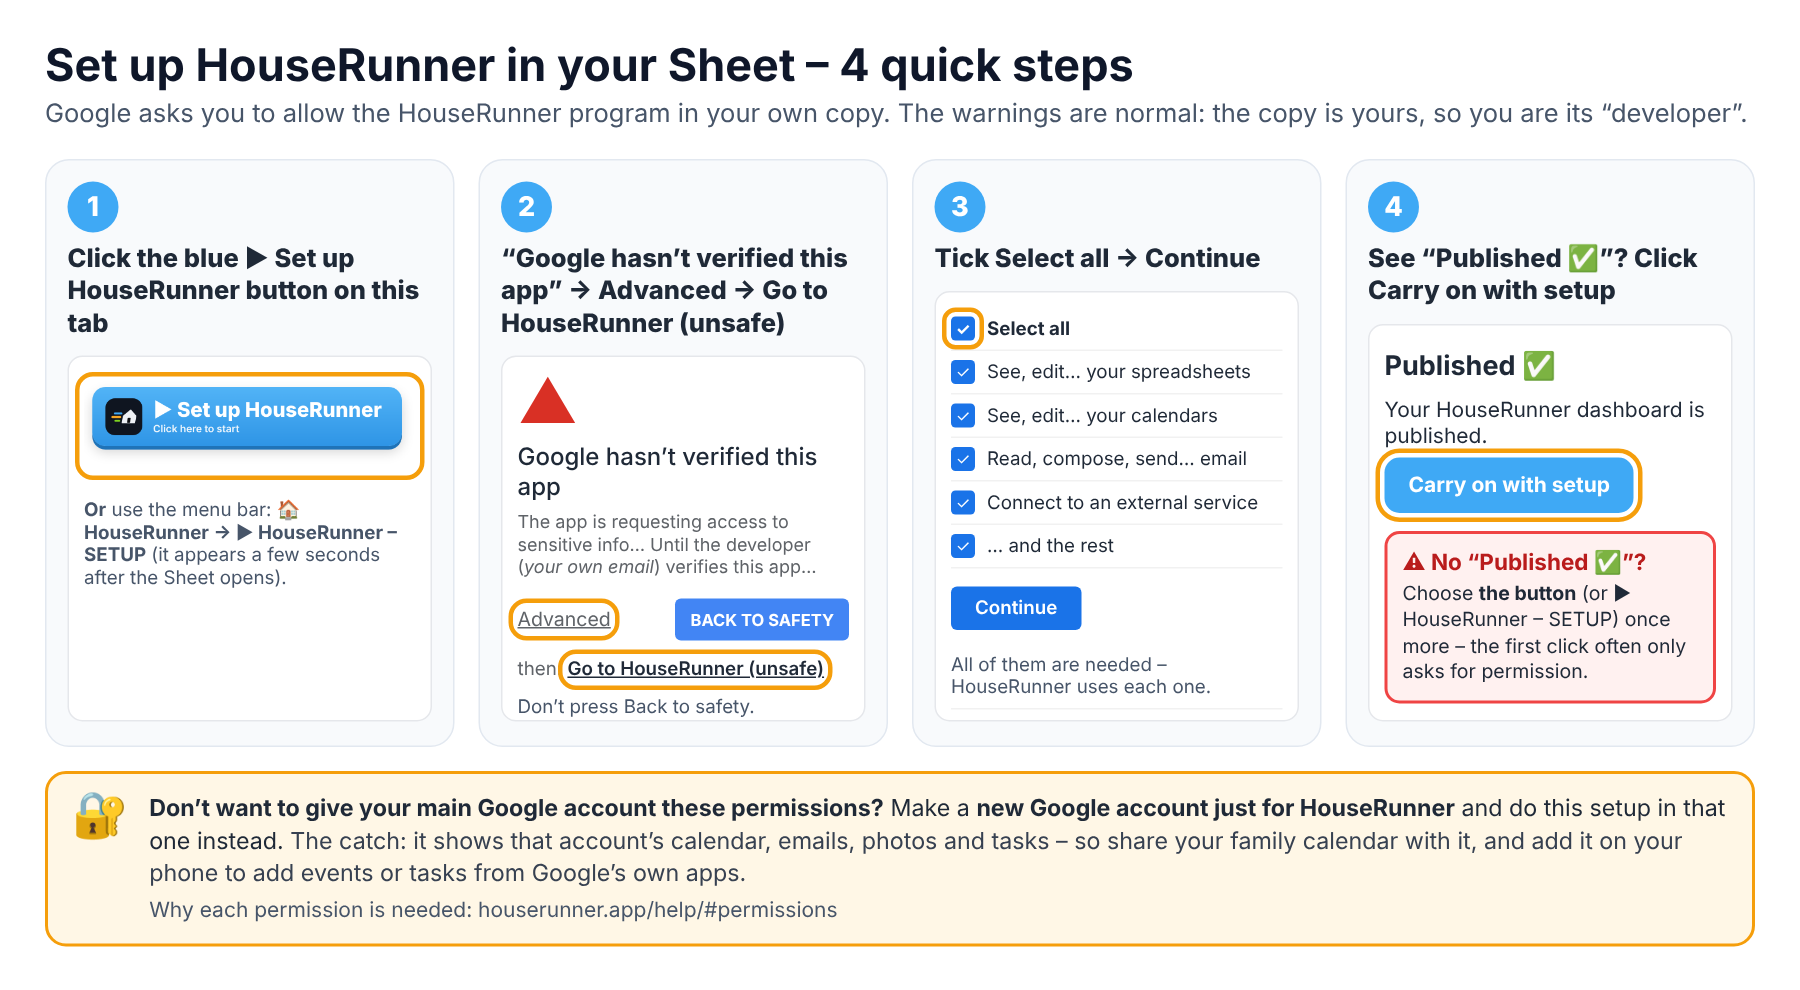
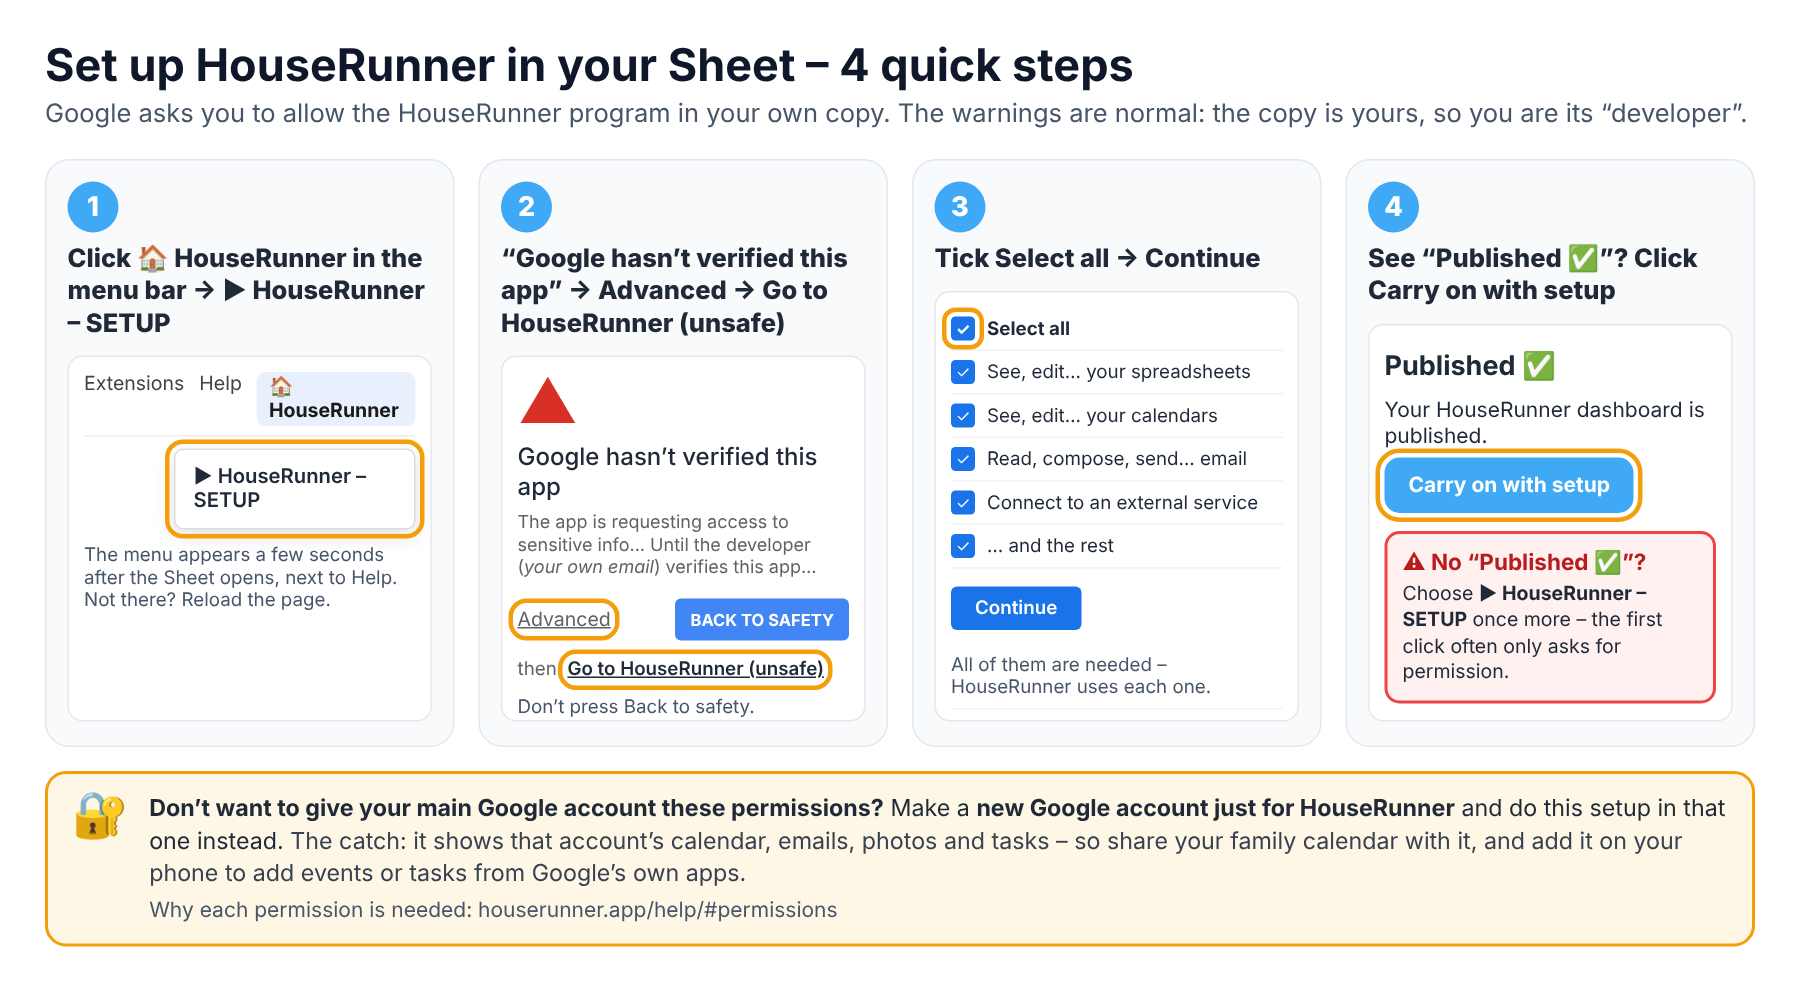
2026.11.261: menu-only instructions
Claude-Session: https://claude.ai/code/session_01R2kV4GW3UVFR51NzUKtdLQ

Changed region(s): [[0.0311, 0.3636, 0.2489, 0.6364], [0.7778, 0.5758, 0.9333, 0.697], [0.0311, 0.2424, 0.2489, 0.3333]]

diff --git a/setup/guide/setup.js b/setup/guide/setup.js
@@ -229,11 +229,11 @@
                 (tpl ? '<div class="card big"><ol class="howto"><li>Click <a class="btn" target="_blank" rel="noopener" href="https://docs.google.com/spreadsheets/d/' + encodeURIComponent(tpl) + '/copy">Make my copy</a> ' +
                     '<span class="mute">(it opens in a new tab)</span>. If Google asks you to sign in, use the Google account you want the dashboard in – the one with the family calendar.</li>' +
                     '<li>Google shows <b>“Copy document?”</b> – click the blue <b>Make a copy</b> button. <span class="mute">(If it mentions “Apps Script files”, that’s right – they come too.)</span></li>' +
-                    '<li>Your new Sheet opens on its <b>Start HERE</b> tab. Click the blue <b>▶ Set up HouseRunner</b> button there. <span class="mute">(Or use the menu along the top, next to <b>Help</b>: <b>🏠 HouseRunner → ▶ HouseRunner – SETUP</b> – it appears a few seconds after the Sheet opens.)</span></li>' +
+                    '<li>Your new Sheet opens on its <b>Start HERE</b> tab. Wait a few seconds for the <b>🏠 HouseRunner</b> menu along the top (next to <b>Help</b>), then click it → <b>▶ HouseRunner – SETUP</b>.</li>' +
                     '<li>Google asks for permission: click <b>Continue</b> and choose your account. Google then shows a red ⚠ <b>“Google hasn’t verified this app”</b> page, saying the developer – <b>your own email address</b> – hasn’t had it verified. ' +
                         'That’s normal: your copy is yours, so you are its “developer”. Don’t press the blue <b>Back to safety</b> button – click <b>Advanced</b> (small, bottom left) → <b>Go to HouseRunner (unsafe)</b>. ' +
                         'Google then lists what HouseRunner may do – click <b>Select all</b> (see the note on permissions below) → <b>Continue</b>.</li>' +
-                    '<li><div class="note bad"><b>⚠ No “Published ✅” message yet?</b> Then click the <b>▶ Set up HouseRunner</b> button (or the menu) once more. ' +
+                    '<li><div class="note bad"><b>⚠ No “Published ✅” message yet?</b> Then choose <b>🏠 HouseRunner → ▶ HouseRunner – SETUP</b> once more. ' +
                         '<span class="mute">Usually it’s needed: Google stops as soon as you’ve allowed it, so the first click only asks for permission and the second one does the work. ' +
                         'If it asks you to turn on one Google switch (the Apps Script API), follow its link, turn it on, and choose the menu once more.</span></div></li>' +
                     '<li>It says <b>“Published ✅”</b>. Click <b>Carry on with setup</b> – setup carries on in a new tab, already connected, showing <b>✅ Your Google Sheet is published and connected</b>. You can close the old tabs.</li></ol>' +

diff --git a/index.html b/index.html
@@ -24,11 +24,11 @@
         window.FD_DESK = true; window.FD_PHONE = !!phone;
     })();
     </script>
-    <link rel="stylesheet" href="shared/base.css?v=202611260">
-    <link rel="stylesheet" href="admin/admin.css?v=202611260">
-    <link rel="stylesheet" href="setup/desk.css?v=202611260">
-    <link rel="stylesheet" href="setup/editor.css?v=202611260">
-    <link rel="stylesheet" href="admin/phone.css?v=202611260">
+    <link rel="stylesheet" href="shared/base.css?v=202611261">
+    <link rel="stylesheet" href="admin/admin.css?v=202611261">
+    <link rel="stylesheet" href="setup/desk.css?v=202611261">
+    <link rel="stylesheet" href="setup/editor.css?v=202611261">
+    <link rel="stylesheet" href="admin/phone.css?v=202611261">
     <style>
 #landing { min-height: 100vh; }
 #landing .ld-wrap { max-width: 1100px; margin: 0 auto; padding: 30px 18px 50px; }
@@ -192,20 +192,20 @@
     </div></div>
     <!-- Connected: houserunner.app (computer) or Family Admin (phone) – the same app. -->
     <div id="app"></div>
-    <script src="shared/storecheck.js?v=202611260"></script>
-    <script src="shared/fd.js?v=202611260"></script>
-    <script src="dashboard/scripts/platform.js?v=202611260"></script>
-    <script src="shared/pair.js?v=202611260"></script>
-    <script src="shared/qrcode.js?v=202611260"></script>
-    <script src="shared/privacy.js?v=202611260"></script>
-    <script src="shared/countries.js?v=202611260"></script>
-    <script src="setup/config.js?v=202611260"></script>
-    <script src="help/topics.js?v=202611260"></script>
-    <script src="setup/editor.js?v=202611260"></script>
-    <script src="setup/calsetup.js?v=202611260"></script>
-    <script src="shared/icons.js?v=202611260"></script>
+    <script src="shared/storecheck.js?v=202611261"></script>
+    <script src="shared/fd.js?v=202611261"></script>
+    <script src="dashboard/scripts/platform.js?v=202611261"></script>
+    <script src="shared/pair.js?v=202611261"></script>
+    <script src="shared/qrcode.js?v=202611261"></script>
+    <script src="shared/privacy.js?v=202611261"></script>
+    <script src="shared/countries.js?v=202611261"></script>
+    <script src="setup/config.js?v=202611261"></script>
+    <script src="help/topics.js?v=202611261"></script>
+    <script src="setup/editor.js?v=202611261"></script>
+    <script src="setup/calsetup.js?v=202611261"></script>
+    <script src="shared/icons.js?v=202611261"></script>
     <!-- A phone gets Family Admin, written for the phone; a computer houserunner.app. -->
-    <script>document.write('<script src="admin/' + (window.FD_PHONE ? 'phone' : 'app') + '.js?v=202611260"><\/script>');</script>
+    <script>document.write('<script src="admin/' + (window.FD_PHONE ? 'phone' : 'app') + '.js?v=202611261"><\/script>');</script>
 <script>
  (function () {
    'use strict';

diff --git a/setup/guide/index.html b/setup/guide/index.html
@@ -6,8 +6,8 @@
     <title>HouseRunner Setup</title>
     <meta name="theme-color" content="#0c0e12">
     <link rel="icon" href="../../shared/brand/icon-192.png"><link rel="apple-touch-icon" href="../../shared/brand/apple-touch-icon.png">
-    <link rel="stylesheet" href="../editor.css?v=202611260">
-    <link rel="stylesheet" href="setup.css?v=202611260">
+    <link rel="stylesheet" href="../editor.css?v=202611261">
+    <link rel="stylesheet" href="setup.css?v=202611261">
 </head>
 <body>
     <header class="cfg-top"><a class="cfg-title hr-title" href="../../"><img src="../../shared/brand/mark.svg" alt="" class="hr-mini"><span>House<span class="hr-acc">Runner</span></span></a><a class="cfg-dash" href="../../dashboard/" target="_blank" rel="noopener">▶ Dashboard</a><a class="cfg-help" href="../../help/" target="_blank" rel="noopener">❓ Help</a></header>
@@ -29,8 +29,8 @@
     <script src="../../shared/countries.js"></script>
     <script src="../../shared/pair.js"></script>
     <script src="../../shared/qrcode.js"></script>
-    <script src="../calsetup.js?v=202611260"></script>
-    <script src="../../shared/storecheck.js?v=202611260"></script>
-    <script src="setup.js?v=202611260"></script>
+    <script src="../calsetup.js?v=202611261"></script>
+    <script src="../../shared/storecheck.js?v=202611261"></script>
+    <script src="setup.js?v=202611261"></script>
 </body>
 </html>

diff --git a/sw.js b/sw.js
@@ -1,6 +1,6 @@
 /* Keeps houserunner.app (the Configurator / Family Admin) available offline. Family data always comes live from Google.
  * The screen, the Family Calendar app and the licence pages look after themselves, so they're left alone here. */
-const CACHE = 'root-v113';
+const CACHE = 'root-v114';
 const FILES = ["./", "index.html", "manifest.webmanifest", "admin/app.js", "admin/phone.js", "admin/phone.css", "admin/admin.css", "admin/icons/icon-192.png", "setup/desk.css", "setup/editor.css", "setup/editor.js", "setup/calsetup.js", "setup/config.js",
   "help/topics.js", "shared/fd.js", "shared/head.js", "shared/storecheck.js", "shared/move.js", "shared/base.css", "shared/brand/mark.svg", "shared/privacy.js", "shared/countries.js", "shared/icons.js", "shared/pair.js", "shared/qrcode.js"];
 const OWN = /^\/(screen|dashboard|calendar|licencing|windows|downloads|Scripts)\//;

diff --git a/admin/sw.js b/admin/sw.js
@@ -1,5 +1,5 @@
 /* Keeps the app itself available offline. Calendar and points data always come live from Google. */
-const CACHE = 'admin-v262';
+const CACHE = 'admin-v263';
 const FILES = ["./", "index.html", "app.js", "admin.css", "manifest.webmanifest", "icons/icon-192.png", "../shared/fd.js", "../shared/storecheck.js", "../shared/move.js", "../shared/base.css", "../shared/brand/symbol.svg", "../shared/privacy.js", "../shared/countries.js", "../shared/pair.js", "../shared/qrcode.js"];
 self.addEventListener('install', e => { e.waitUntil(caches.open(CACHE).then(c => c.addAll(FILES)).then(() => self.skipWaiting())); });
 self.addEventListener('activate', e => { e.waitUntil(caches.keys().then(ks => Promise.all(ks.filter(k => k.startsWith('admin-') && k !== CACHE).map(k => caches.delete(k)))).then(() => self.clients.claim())); });

diff --git a/calendar/sw.js b/calendar/sw.js
@@ -1,5 +1,5 @@
 /* Keeps the app itself available offline. Calendar and points data always come live from Google. */
-const CACHE = 'calendar-v250';
+const CACHE = 'calendar-v251';
 const FILES = ["./", "index.html", "app.js", "calendar.css", "manifest.webmanifest", "icons/icon-192.png", "../shared/fd.js", "../shared/storecheck.js", "../shared/move.js", "../shared/base.css", "../shared/brand/symbol.svg", "../shared/pair.js", "../shared/qrcode.js"];
 self.addEventListener('install', e => { e.waitUntil(caches.open(CACHE).then(c => c.addAll(FILES)).then(() => self.skipWaiting())); });
 self.addEventListener('activate', e => { e.waitUntil(caches.keys().then(ks => Promise.all(ks.filter(k => k.startsWith('calendar-') && k !== CACHE).map(k => caches.delete(k)))).then(() => self.clients.claim())); });

diff --git a/shared/fd.js b/shared/fd.js
@@ -191,7 +191,7 @@
         clearConfig: function () { cfg = {}; try { localStorage.removeItem(KEY); } catch (e) { /* ignore */ } },
         parseSetup: parseSetup,
 
-        VERSION: '2026.11.260',     // the phone apps' version (same number as the screen's)
+        VERSION: '2026.11.261',     // the phone apps' version (same number as the screen's)
         get: function (action, params, timeout) {
             var q = 'action=' + encodeURIComponent(action) + '&code=' + encodeURIComponent(cfg.code) + '&t=' + Date.now();
             Object.keys(params || {}).forEach(function (k) { q += '&' + k + '=' + encodeURIComponent(params[k]); });

diff --git a/dashboard/scripts/notices.js b/dashboard/scripts/notices.js
@@ -6,7 +6,7 @@
  */
 (function () {
     'use strict';
-    var APP_VERSION = '2026.11.260';
+    var APP_VERSION = '2026.11.261';
     var SNOOZE_KEY = 'familyDashboard.updateSnooze', SCRIPT_KEY = 'familyDashboard.scriptNag';
     var latest = null, lastLayout = null, privacyOpen = false, lastTouch = Date.now(), updating = false;
     var IDLE_MS = 3 * 60000;
